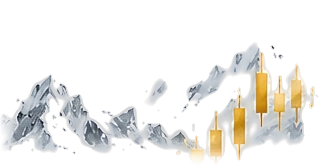
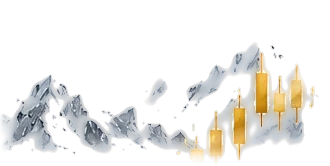
fix(ui): профиль, аналитика и шапка сверены со снимками
- Шапка разделов: горы, девиз и корона - одним блоком, кнопки раздела
  встают левее и не лежат на снегу.
- Профиль: баннер карточки во всю ширину от правого края, композиция
  целиком и тает к имени; надписи с баннеров стёрты из картинок и
  набраны текстом - читаются и на тёмной теме. Дымка и свечение без
  клетки.
- Аналитика: «Месяц в цифрах» и «Счёт и издержки» держат строки и в
  пустом месяце (прочерки) - колонка ровняется с календарём; девиз у
  столбцов не наезжает на картинку. Медали сертификатов до получения -
  в цвете.

diff --git a/webapp/app/app/analytics/page.tsx b/webapp/app/app/analytics/page.tsx
@@ -968,8 +968,9 @@ export default function AnalyticsPage() {
               <span className="text-[10px] text-[var(--pane-muted)]">{t.analytics.month.hint}</span>
             </div>
             <div className="flex">
-            {monthTrades > 0 || tradingDays > 0 ? (
-              <dl className="min-w-0 flex-1 divide-y divide-[var(--pane-border)]">
+            {/* Строки есть и в пустом месяце - прочерками: панель держит
+                высоту, и колонка справа ровняется с календарём. */}
+            <dl className="min-w-0 flex-1 divide-y divide-[var(--pane-border)]">
                 <Metric label={t.analytics.month.trades} value={fmtDot(monthTrades)} />
                 <Metric
                   label={t.analytics.month.profitDays}
@@ -978,8 +979,8 @@ export default function AnalyticsPage() {
                 />
                 <Metric
                   label={t.analytics.month.result}
-                  value={`${monthPnl >= 0 ? "+" : ""}${monthPnl.toFixed(2)} $`}
-                  tone={monthPnl >= 0 ? "up" : "down"}
+                  value={monthTrades > 0 ? `${monthPnl >= 0 ? "+" : ""}${monthPnl.toFixed(2)} $` : "-"}
+                  tone={monthTrades > 0 ? (monthPnl >= 0 ? "up" : "down") : undefined}
                 />
                 <Metric
                   label={t.analytics.month.best}
@@ -991,13 +992,8 @@ export default function AnalyticsPage() {
                   value={worstDay ? `${worstDay.pnl_pct!.toFixed(1)}%` : "-"}
                   tone={worstDay && (worstDay.pnl_pct ?? 0) < 0 ? "down" : undefined}
                 />
-                <Metric label={t.analytics.month.perDay} value={`$${fmtVolShort(volumePerDay)}`} />
+                <Metric label={t.analytics.month.perDay} value={volumePerDay > 0 ? `$${fmtVolShort(volumePerDay)}` : "-"} />
               </dl>
-            ) : (
-              <p className="min-w-0 flex-1 px-3 py-6 text-center text-[11px] text-[var(--pane-muted)]">
-                {t.analytics.month.empty}
-              </p>
-            )}
             <PanelArt src="/art/analytics/growth-bars.webp" motto={t.analytics.mottos.month} />
             </div>
           </div>
@@ -1012,40 +1008,34 @@ export default function AnalyticsPage() {
               </span>
             </div>
             <div className="flex">
-            {tradeSummary ? (
-              <dl className="min-w-0 flex-1 divide-y divide-[var(--pane-border)]">
+            <dl className="min-w-0 flex-1 divide-y divide-[var(--pane-border)]">
                 <Metric
                   label={t.analytics.account.futures}
-                  value={`$${fmtVolShort(tradeSummary.futures_volume)}`}
+                  value={tradeSummary ? `$${fmtVolShort(tradeSummary.futures_volume)}` : "-"}
                 />
                 <Metric
                   label={t.analytics.account.spot}
-                  value={`$${fmtVolShort(tradeSummary.spot_volume)}`}
+                  value={tradeSummary ? `$${fmtVolShort(tradeSummary.spot_volume)}` : "-"}
                 />
                 <Metric
                   label={t.analytics.account.commission}
-                  value={`$${fmtDot(Math.round(commission))}`}
+                  value={tradeSummary ? `$${fmtDot(Math.round(commission))}` : "-"}
                   note={commission > 0 ? t.analytics.account.ofVolume(commissionPct.toFixed(3)) : undefined}
                 />
                 <Metric
                   label={t.analytics.account.deposits}
-                  value={`$${fmtDot(Math.round(depositTotal))}`}
+                  value={tradeSummary ? `$${fmtDot(Math.round(depositTotal))}` : "-"}
                 />
                 <Metric
                   label={t.analytics.account.withdrawals}
-                  value={`$${fmtDot(Math.round(withdrawTotal))}`}
+                  value={tradeSummary ? `$${fmtDot(Math.round(withdrawTotal))}` : "-"}
                 />
                 <Metric
                   label={t.analytics.account.net}
-                  value={`$${fmtDot(Math.round(depositTotal - withdrawTotal))}`}
-                  tone={depositTotal - withdrawTotal >= 0 ? "up" : "down"}
+                  value={tradeSummary ? `$${fmtDot(Math.round(depositTotal - withdrawTotal))}` : "-"}
+                  tone={tradeSummary ? (depositTotal - withdrawTotal >= 0 ? "up" : "down") : undefined}
                 />
               </dl>
-            ) : (
-              <p className="min-w-0 flex-1 px-3 py-6 text-center text-[11px] text-[var(--pane-muted)]">
-                {t.analytics.account.empty}
-              </p>
-            )}
             <PanelArt src="/art/analytics/coin-stacks.webp" motto={t.analytics.mottos.account} />
             </div>
           </div>
@@ -1426,7 +1416,7 @@ function PanelArt({ src, motto }: { src: string; motto: readonly string[] }) {
       <img
         src={src}
         alt=""
-        className="pointer-events-none absolute inset-y-1 left-0 h-[calc(100%-0.5rem)] w-[calc(100%-6.5rem)] object-contain object-center drop-shadow-[0_10px_18px_rgba(0,0,0,0.18)]"
+        className="pointer-events-none absolute inset-y-1 left-0 h-[calc(100%-0.5rem)] w-[calc(100%-8.5rem)] object-contain object-center drop-shadow-[0_10px_18px_rgba(0,0,0,0.18)]"
       />
       <Motto lines={motto} className="absolute right-3 top-1/2 -translate-y-1/2 !tracking-[0.24em]" />
     </div>

diff --git a/webapp/app/app/profile/page.tsx b/webapp/app/app/profile/page.tsx
@@ -16,6 +16,7 @@ import { setSoundOn, useSoundOn } from "@/lib/notifySound";
 import { intlLocale, setLocale, useLocale, useT, type Locale } from "@/lib/i18n";
 import { PaneHead, PaneScope } from "@/components/app/Pane";
 import FramedAvatar from "@/components/avatar/FramedAvatar";
+import Motto, { BRAND_MOTTO } from "@/components/app/Motto";
 
 const ADMIN_WEEX_UID = "6613031308";
 
@@ -143,11 +144,17 @@ export default function ProfilePage() {
             src="/art/profile/card-banner.webp"
             alt=""
             aria-hidden
-            className="profile-art pointer-events-none absolute inset-y-0 right-0 hidden h-full w-[62%] object-cover object-[78%_50%] sm:block"
+            className="profile-art pointer-events-none absolute inset-0 hidden h-full w-full object-cover object-right sm:block"
             style={{
-              maskImage: "linear-gradient(90deg, transparent 0%, #000 30%)",
-              WebkitMaskImage: "linear-gradient(90deg, transparent 0%, #000 30%)",
+              maskImage: "linear-gradient(90deg, transparent 30%, #000 55%)",
+              WebkitMaskImage: "linear-gradient(90deg, transparent 30%, #000 55%)",
             }}
+          />
+          {/* Девиз набран текстом, а не впечатан в картинку: так он читается и
+              на тёмной теме. */}
+          <Motto
+            lines={BRAND_MOTTO}
+            className="absolute right-5 top-5 hidden !text-[11px] !tracking-[0.42em] !text-[var(--pane-text-2)] md:block"
           />
           <div className="relative flex items-center gap-4">
             {/* Аватарка из Telegram, если она есть. Файл отдаёт бэкенд, поэтому
@@ -451,13 +458,18 @@ export default function ProfilePage() {
 
       {/* Нижний баннер бренда: горы, терминал и корона - без рамки, тает в
           фон страницы. */}
-      {/* eslint-disable-next-line @next/next/no-img-element */}
-      <img
-        src="/art/profile/bottom-banner.webp"
-        alt=""
-        aria-hidden
-        className="profile-art mx-auto hidden w-full max-w-[1280px] sm:block"
-      />
+      <div className="relative mx-auto hidden w-full max-w-[1280px] sm:block">
+        {/* eslint-disable-next-line @next/next/no-img-element */}
+        <img src="/art/profile/bottom-banner.webp" alt="" aria-hidden className="profile-art w-full" />
+        <Motto
+          lines={BRAND_MOTTO}
+          className="absolute left-[1.5%] top-[10%] !text-[12px] !tracking-[0.42em] !text-[var(--pane-text-2)]"
+        />
+        <Motto
+          lines={t.profile.bannerWords}
+          className="absolute right-[1.5%] top-[8%] !text-[10px] !tracking-[0.3em] !text-[var(--pane-text-2)]"
+        />
+      </div>
 
       {/* Окно ключей - то же самое, что в терминале. Оно красится палитрой
           панелей, а она живёт на классе: без обёртки переменные не подставятся

diff --git a/webapp/components/app/Pane.tsx b/webapp/components/app/Pane.tsx
@@ -61,13 +61,6 @@ export function PaneHead({
 }) {
   return (
     <div className="relative flex flex-wrap items-center justify-between gap-x-3 gap-y-2 md:min-h-[64px]">
-      {/* eslint-disable-next-line @next/next/no-img-element */}
-      <img
-        src="/art/brand/mountains.webp"
-        alt=""
-        aria-hidden
-        className="head-ridge pointer-events-none absolute -top-8 right-40 -z-10 hidden h-[140px] w-auto md:block"
-      />
 
       <div className="flex min-w-0 items-baseline gap-2.5">
         <h1 className="text-[20px] font-bold tracking-tight text-[var(--pane-text)]">{title}</h1>
@@ -82,7 +75,18 @@ export function PaneHead({
             {children}
           </div>
         )}
+        {/* Горы, девиз и корона - одним блоком: место под горы занято в строке,
+            и кнопки раздела встают левее, а не поверх снега. Подножие гор
+            уходит под панели первого ряда. */}
         <div aria-hidden className="hidden items-center gap-2 xl:flex">
+          <span className="relative h-10 w-52 shrink-0">
+            {/* eslint-disable-next-line @next/next/no-img-element */}
+            <img
+              src="/art/brand/mountains.webp"
+              alt=""
+              className="head-ridge pointer-events-none absolute -top-9 right-2 -z-10 h-[140px] w-auto max-w-none"
+            />
+          </span>
           <Motto lines={BRAND_MOTTO} />
           {/* eslint-disable-next-line @next/next/no-img-element */}
           <img src="/art/brand/crown.webp" alt="" className="h-11 w-auto drop-shadow-[0_4px_10px_rgba(240,185,11,0.35)]" />

diff --git a/webapp/components/cert/CertificatesPanel.tsx b/webapp/components/cert/CertificatesPanel.tsx
@@ -90,7 +90,7 @@ export default function CertificatesPanel({ className = "" }: { className?: stri
               <img
                 src={stampSrc(level)}
                 alt=""
-                className={`h-14 w-14 shrink-0 object-contain drop-shadow-[0_4px_10px_rgba(0,0,0,0.25)] ${reached ? "" : "opacity-55 saturate-[0.7]"}`}
+                className={`h-14 w-14 shrink-0 object-contain drop-shadow-[0_4px_10px_rgba(0,0,0,0.25)] ${reached ? "" : "opacity-90"}`}
               />
               <div className="min-w-0">
                 <p className="text-[13px] font-bold text-[var(--pane-text)]">{t.cert.levels[level]}</p>

diff --git a/webapp/lib/i18n/dict/ru/profile.ts b/webapp/lib/i18n/dict/ru/profile.ts
@@ -31,5 +31,7 @@ export const profile = {
   cardNameHint: "Пусто - подпись возьмётся из Telegram",
 
   adminPanel: "Админ панель",
+  /** Столбик слов справа на нижнем баннере профиля. */
+  bannerWords: ["Сообщество", "Аналитика", "Инструменты", "Развитие", "Свобода"],
   logoutAccount: "Выйти из аккаунта",
 };

diff --git a/webapp/lib/i18n/dict/en/profile.ts b/webapp/lib/i18n/dict/en/profile.ts
@@ -29,5 +29,7 @@ export const profile = {
   cardNameHint: "Leave empty - the name comes from Telegram",
 
   adminPanel: "Admin panel",
+  /** Word column on the right of the profile bottom banner. */
+  bannerWords: ["Community", "Analytics", "Tools", "Growth", "Freedom"],
   logoutAccount: "Log out of the account",
 };
